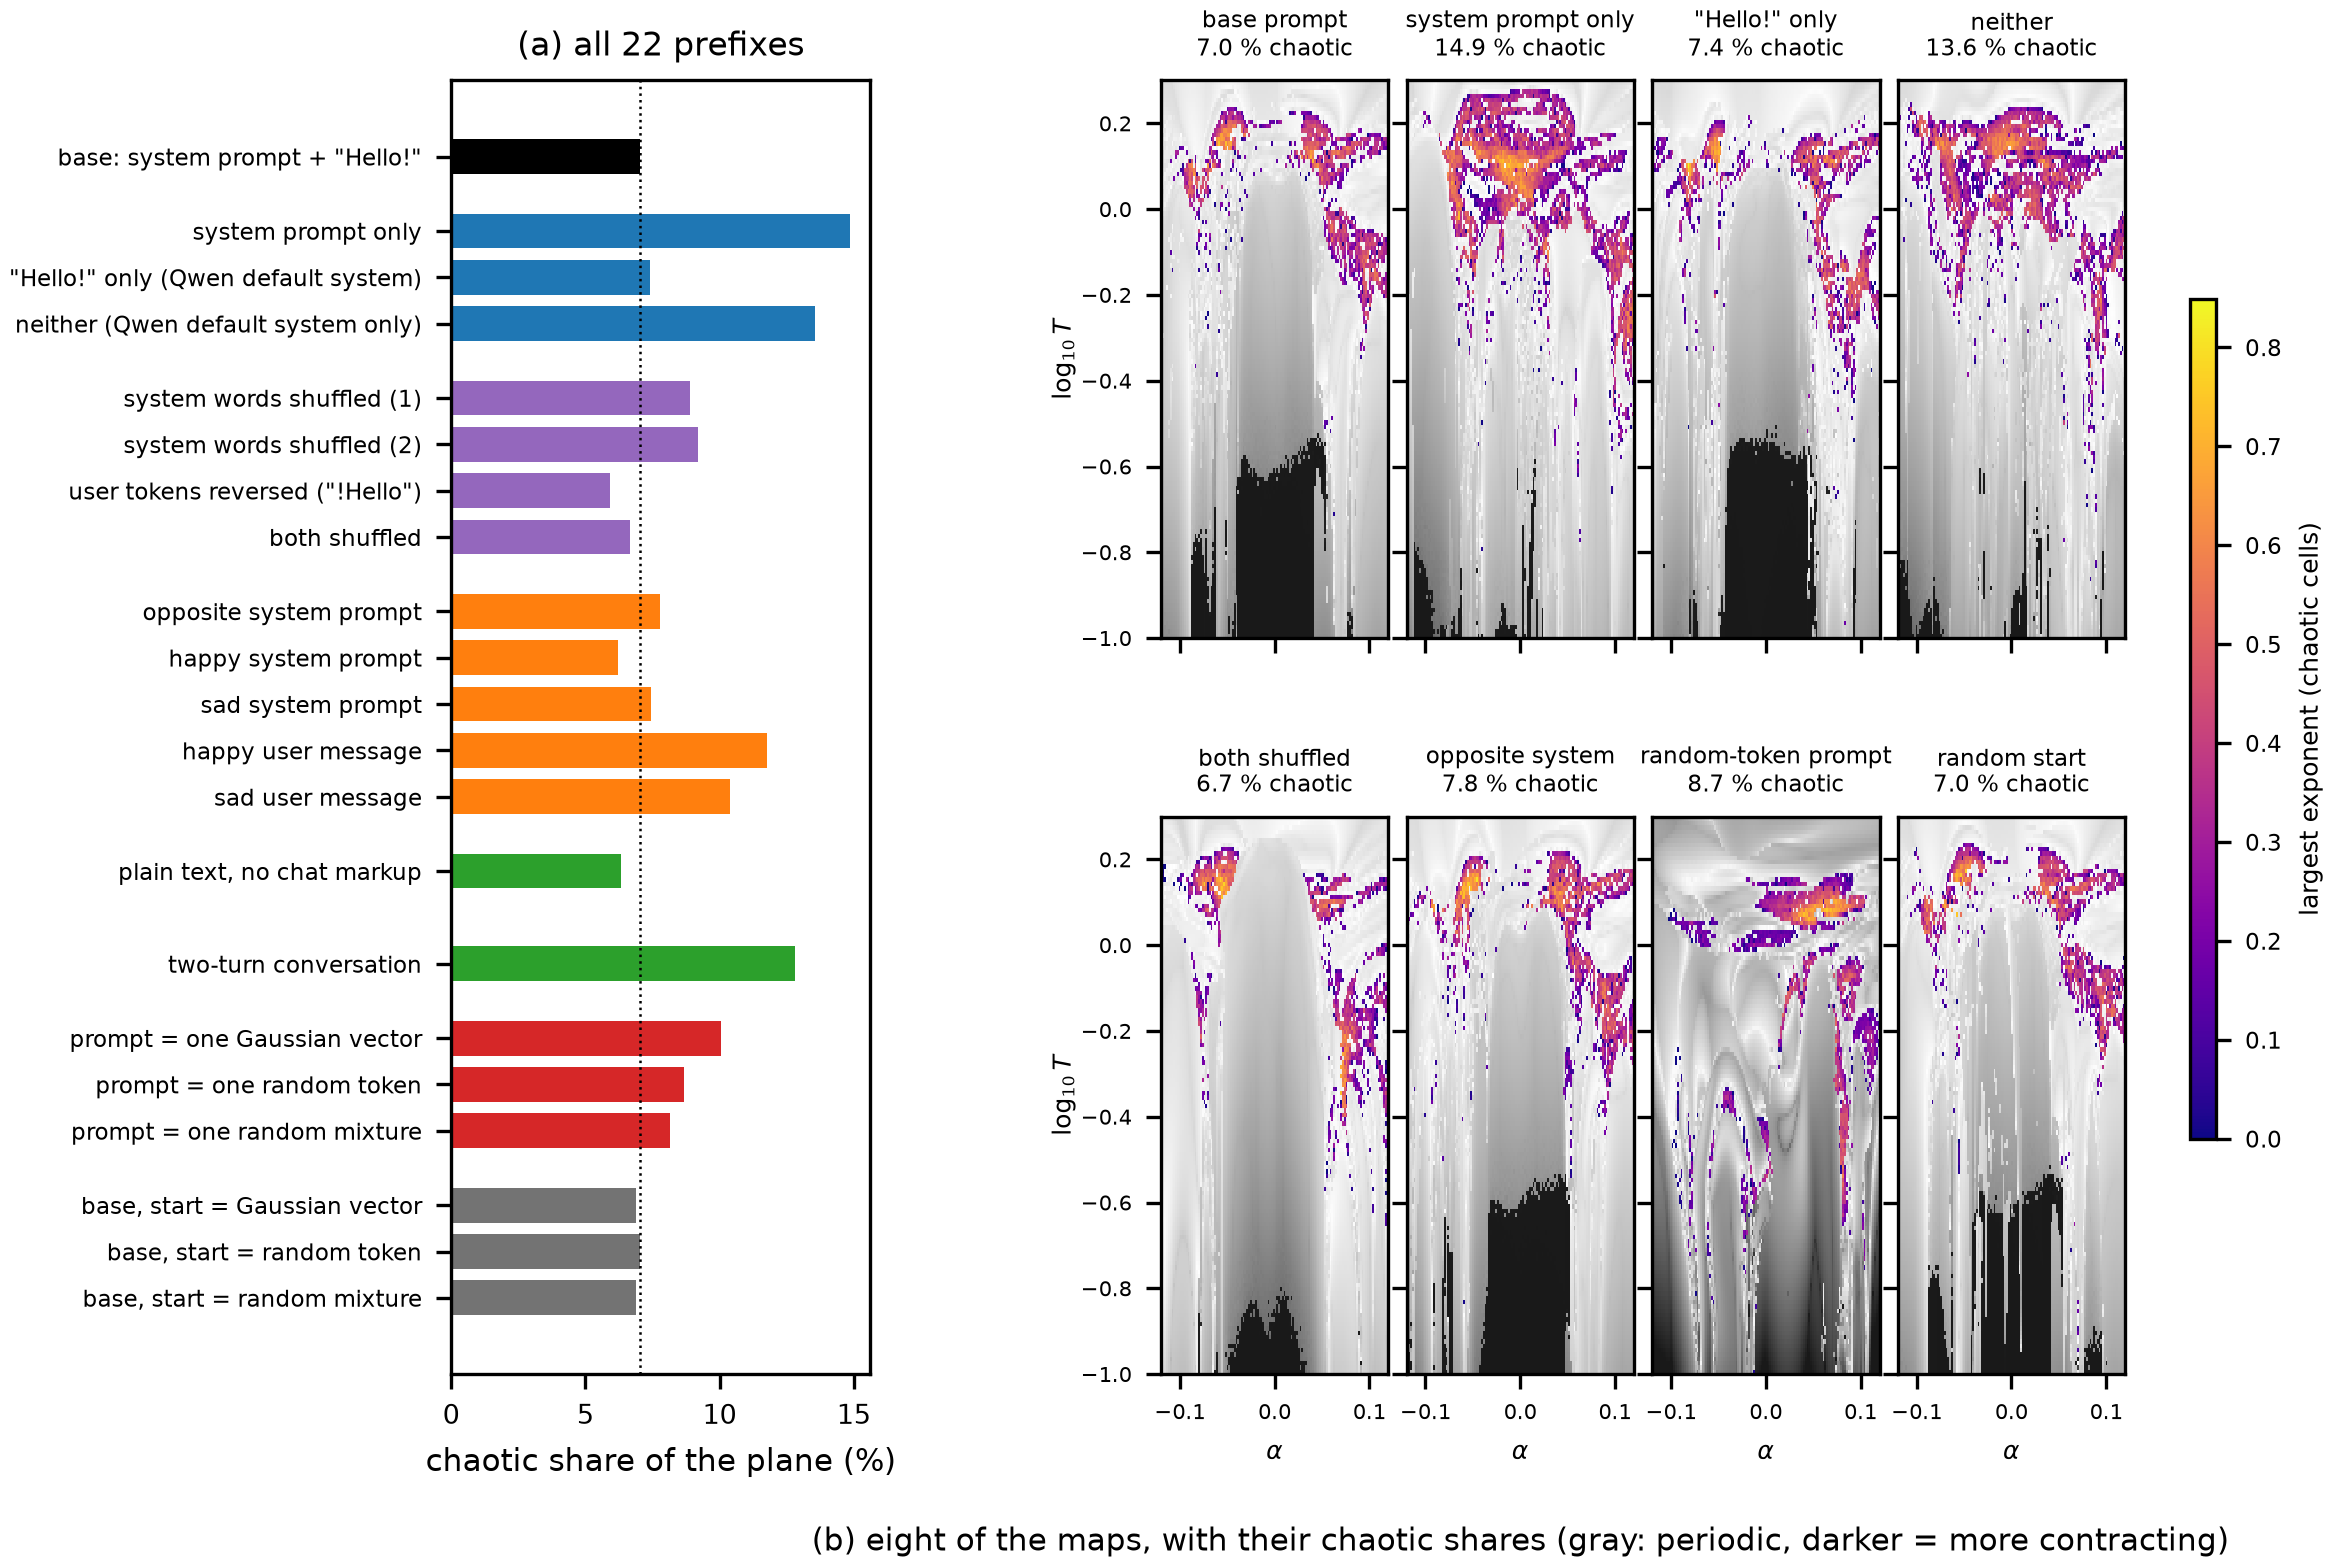
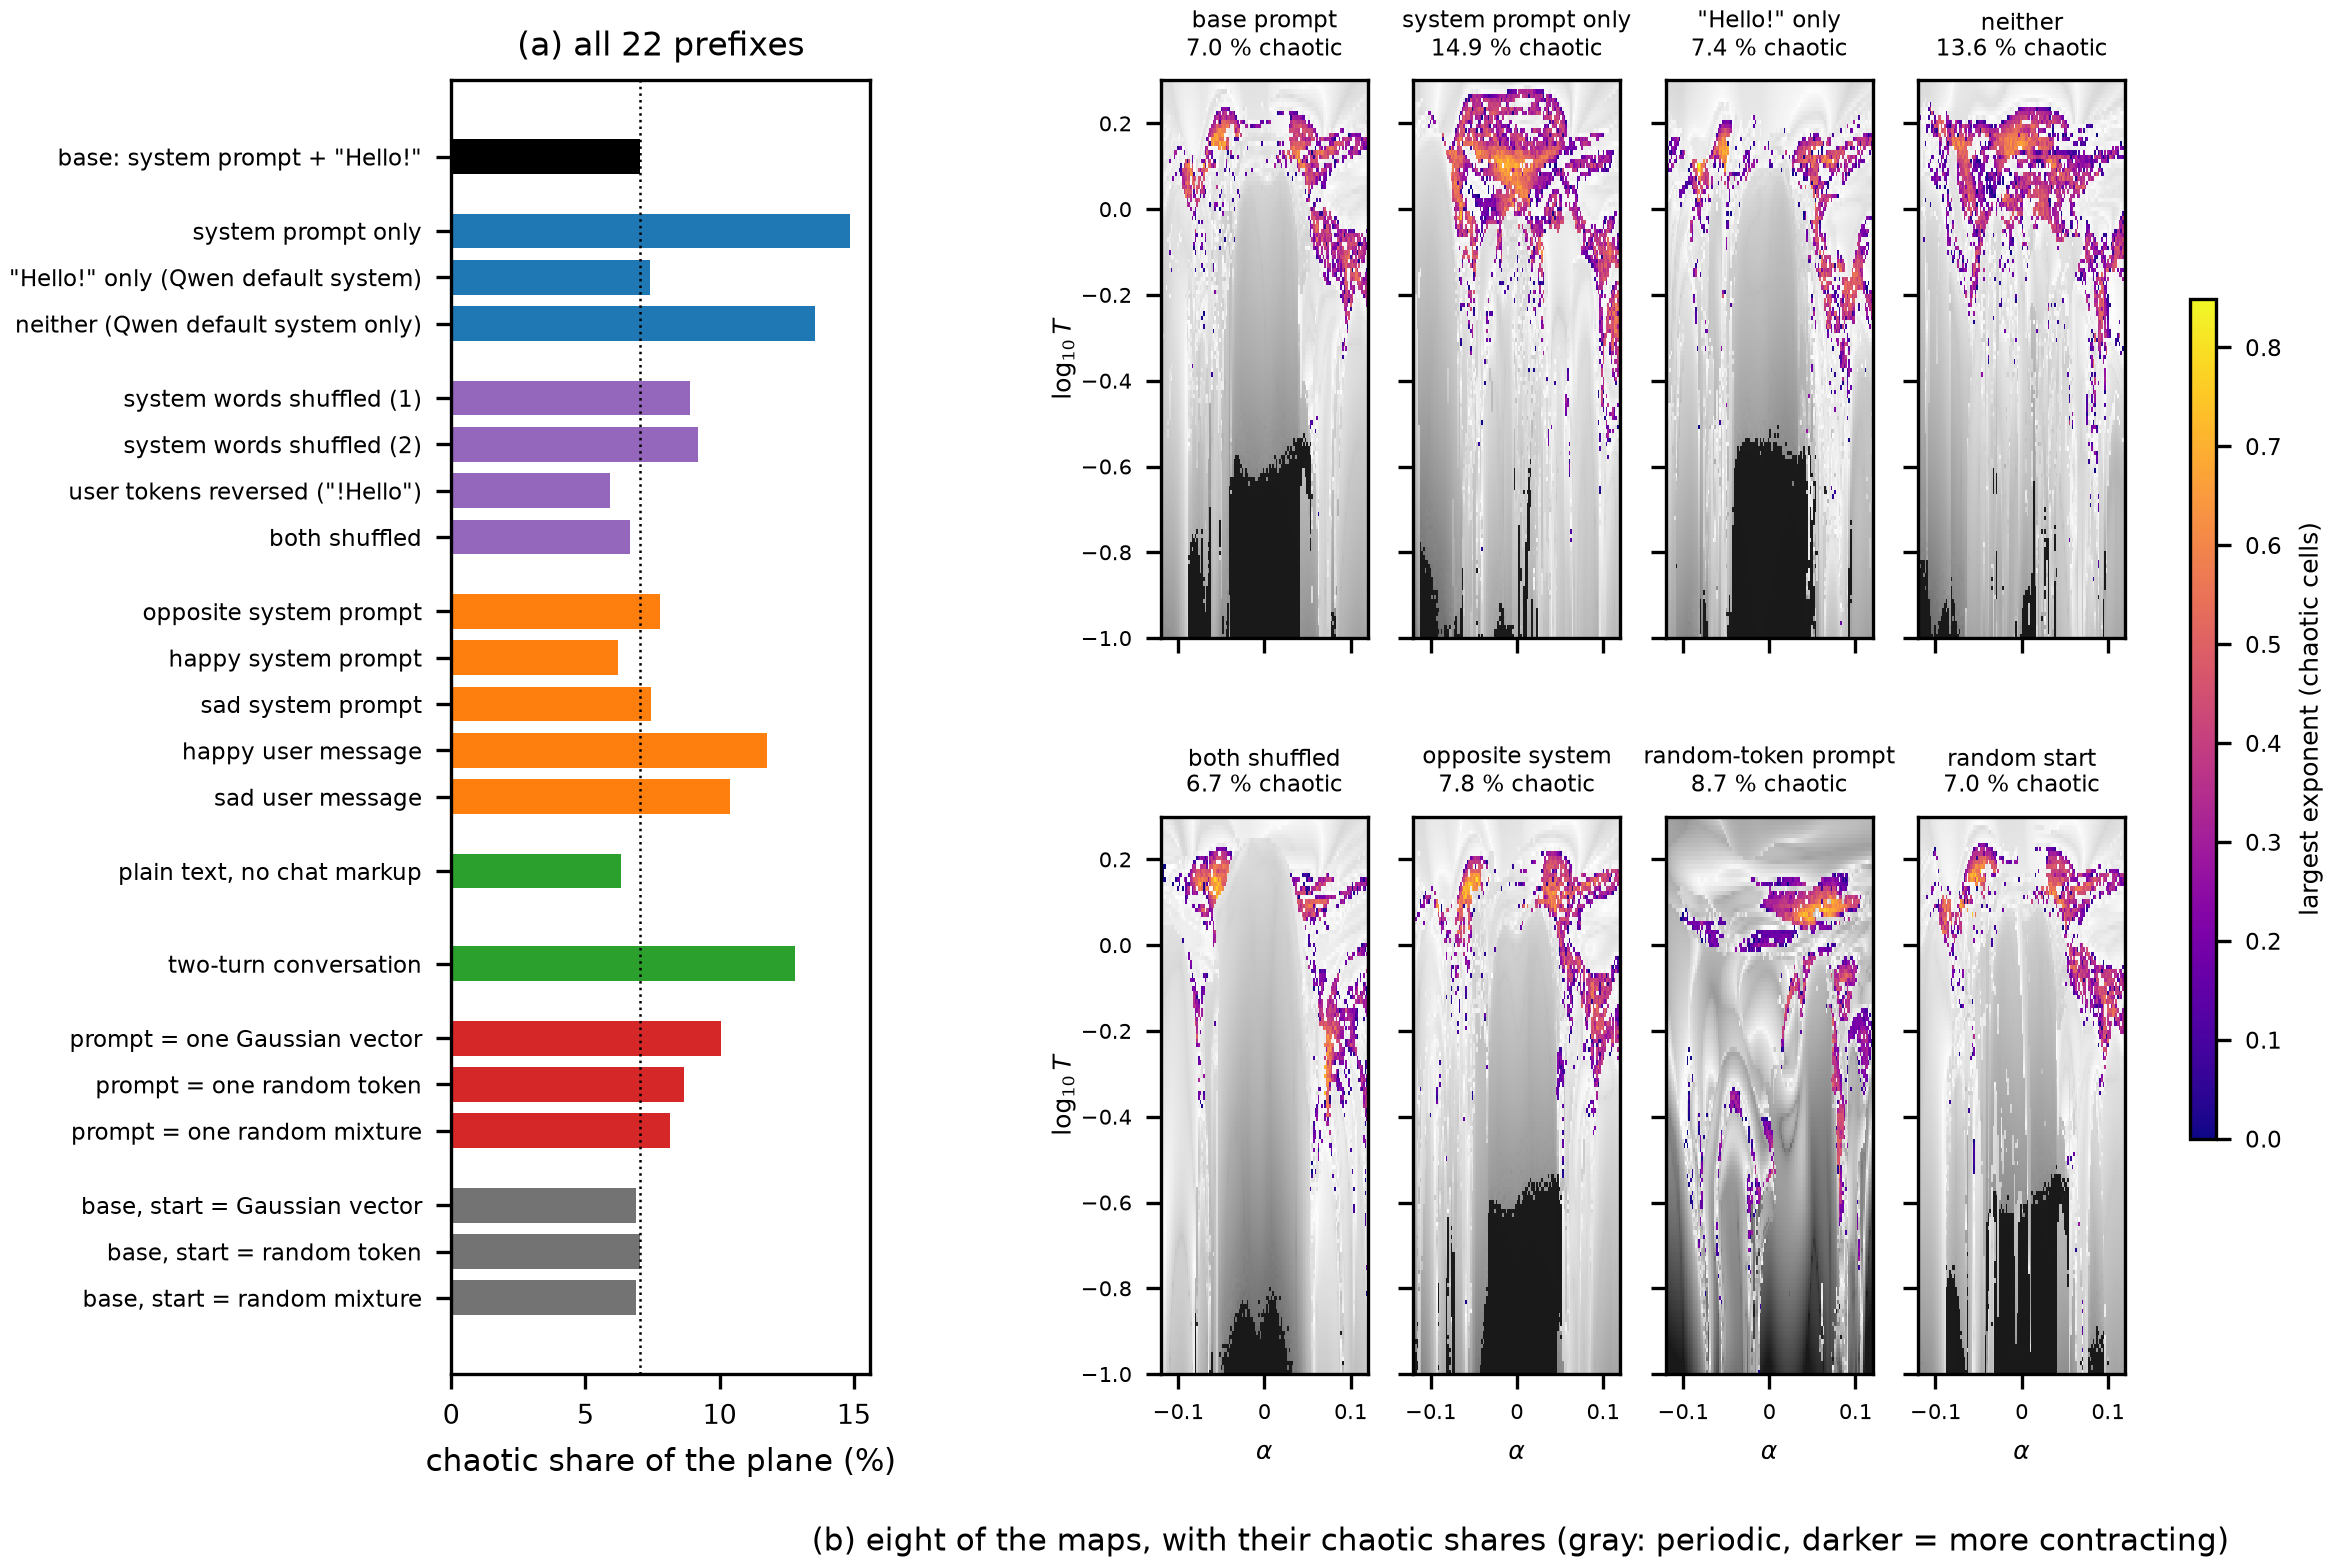
fig-prompt-variants: no overlapping text (two-line titles, separated panels and tick labels)

diff --git a/tools/plot_pv.py b/tools/plot_pv.py
@@ -60,7 +60,7 @@ def main():
     plt.rcParams.update({"font.size": 7.5})
     fig = plt.figure(figsize=(7.2, 5.6))
     outer = GridSpec(1, 2, figure=fig, width_ratios=[1.0, 2.3], wspace=0.42)
-    gs = outer[0, 1].subgridspec(2, 4, hspace=0.32, wspace=0.08)
+    gs = outer[0, 1].subgridspec(2, 4, hspace=0.32, wspace=0.22)
     axb = fig.add_subplot(outer[0, 0])
     ys, labels, colors = [], [], []
     y = 0
@@ -95,6 +95,8 @@ def main():
         im = plt.cm.ScalarMappable(cmap="plasma", norm=plt.Normalize(0, vmax))
         ax.set_title(f"{SHORT[c]}\n{100 * shares[c]:.1f} % chaotic", fontsize=5.6, linespacing=1.1)
         ax.tick_params(labelsize=5)
+        ax.set_xticks([-0.1, 0.0, 0.1])
+        ax.set_xticklabels(["\u22120.1", "0", "0.1"])
         if k % 4:
             ax.set_yticklabels([])
         else:
